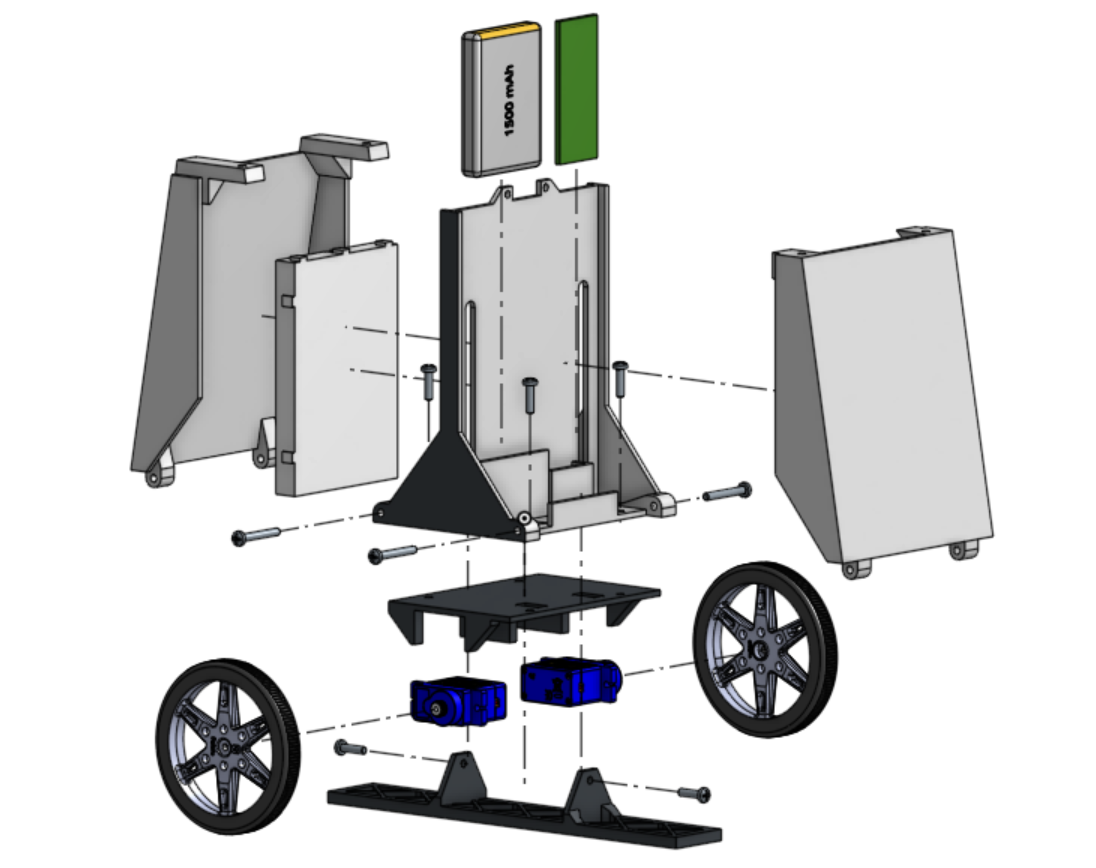
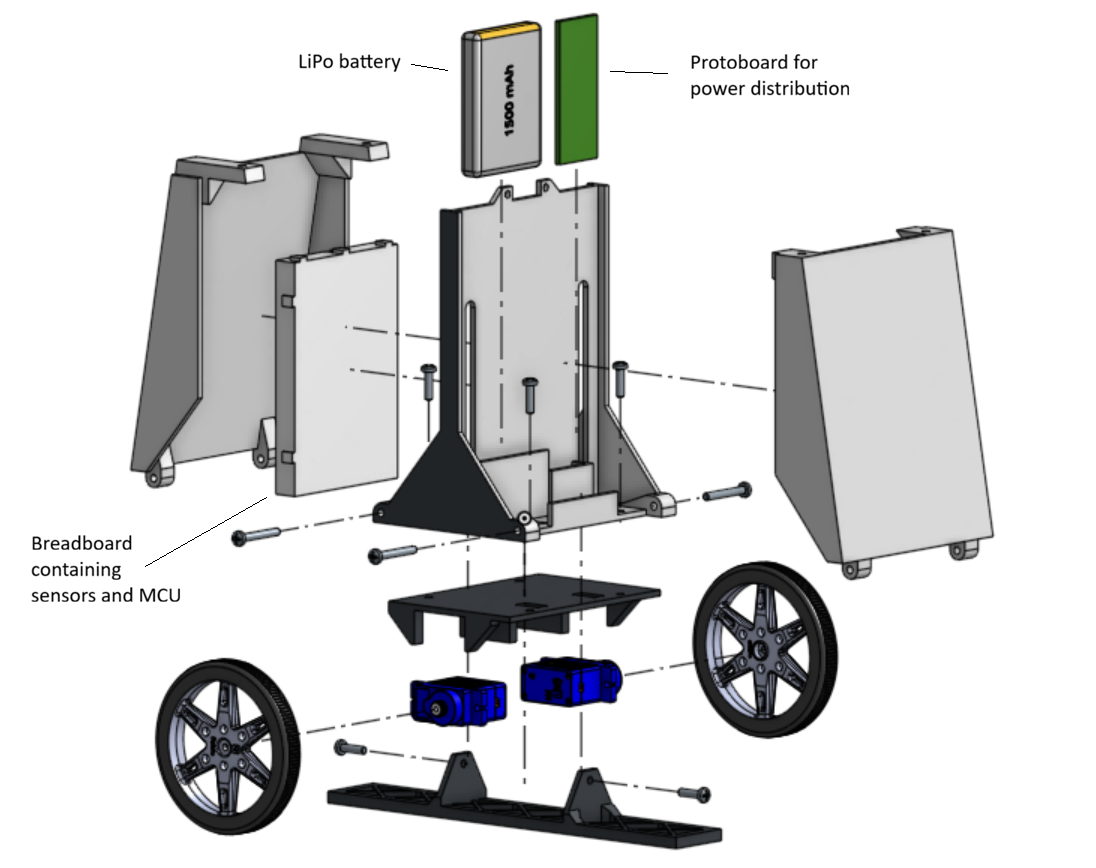
Update

Changed region(s): [[0.031, 0.6221, 0.1551, 0.7154], [0.6204, 0.0622, 0.7755, 0.1244], [0.2792, 0.0622, 0.3723, 0.0933]]

diff --git a/index.html b/index.html
@@ -52,7 +52,7 @@
                             combined with a magnetometer for rough inertial mapping.
                         </p>
                         <p>
-                            Source code in
+                            Source code (MicroPython) in
                             <a href="https://github.com/eelivaan/BalancerBot" target="_blank">my GitHub</a>
                         </p>
                     </div>
